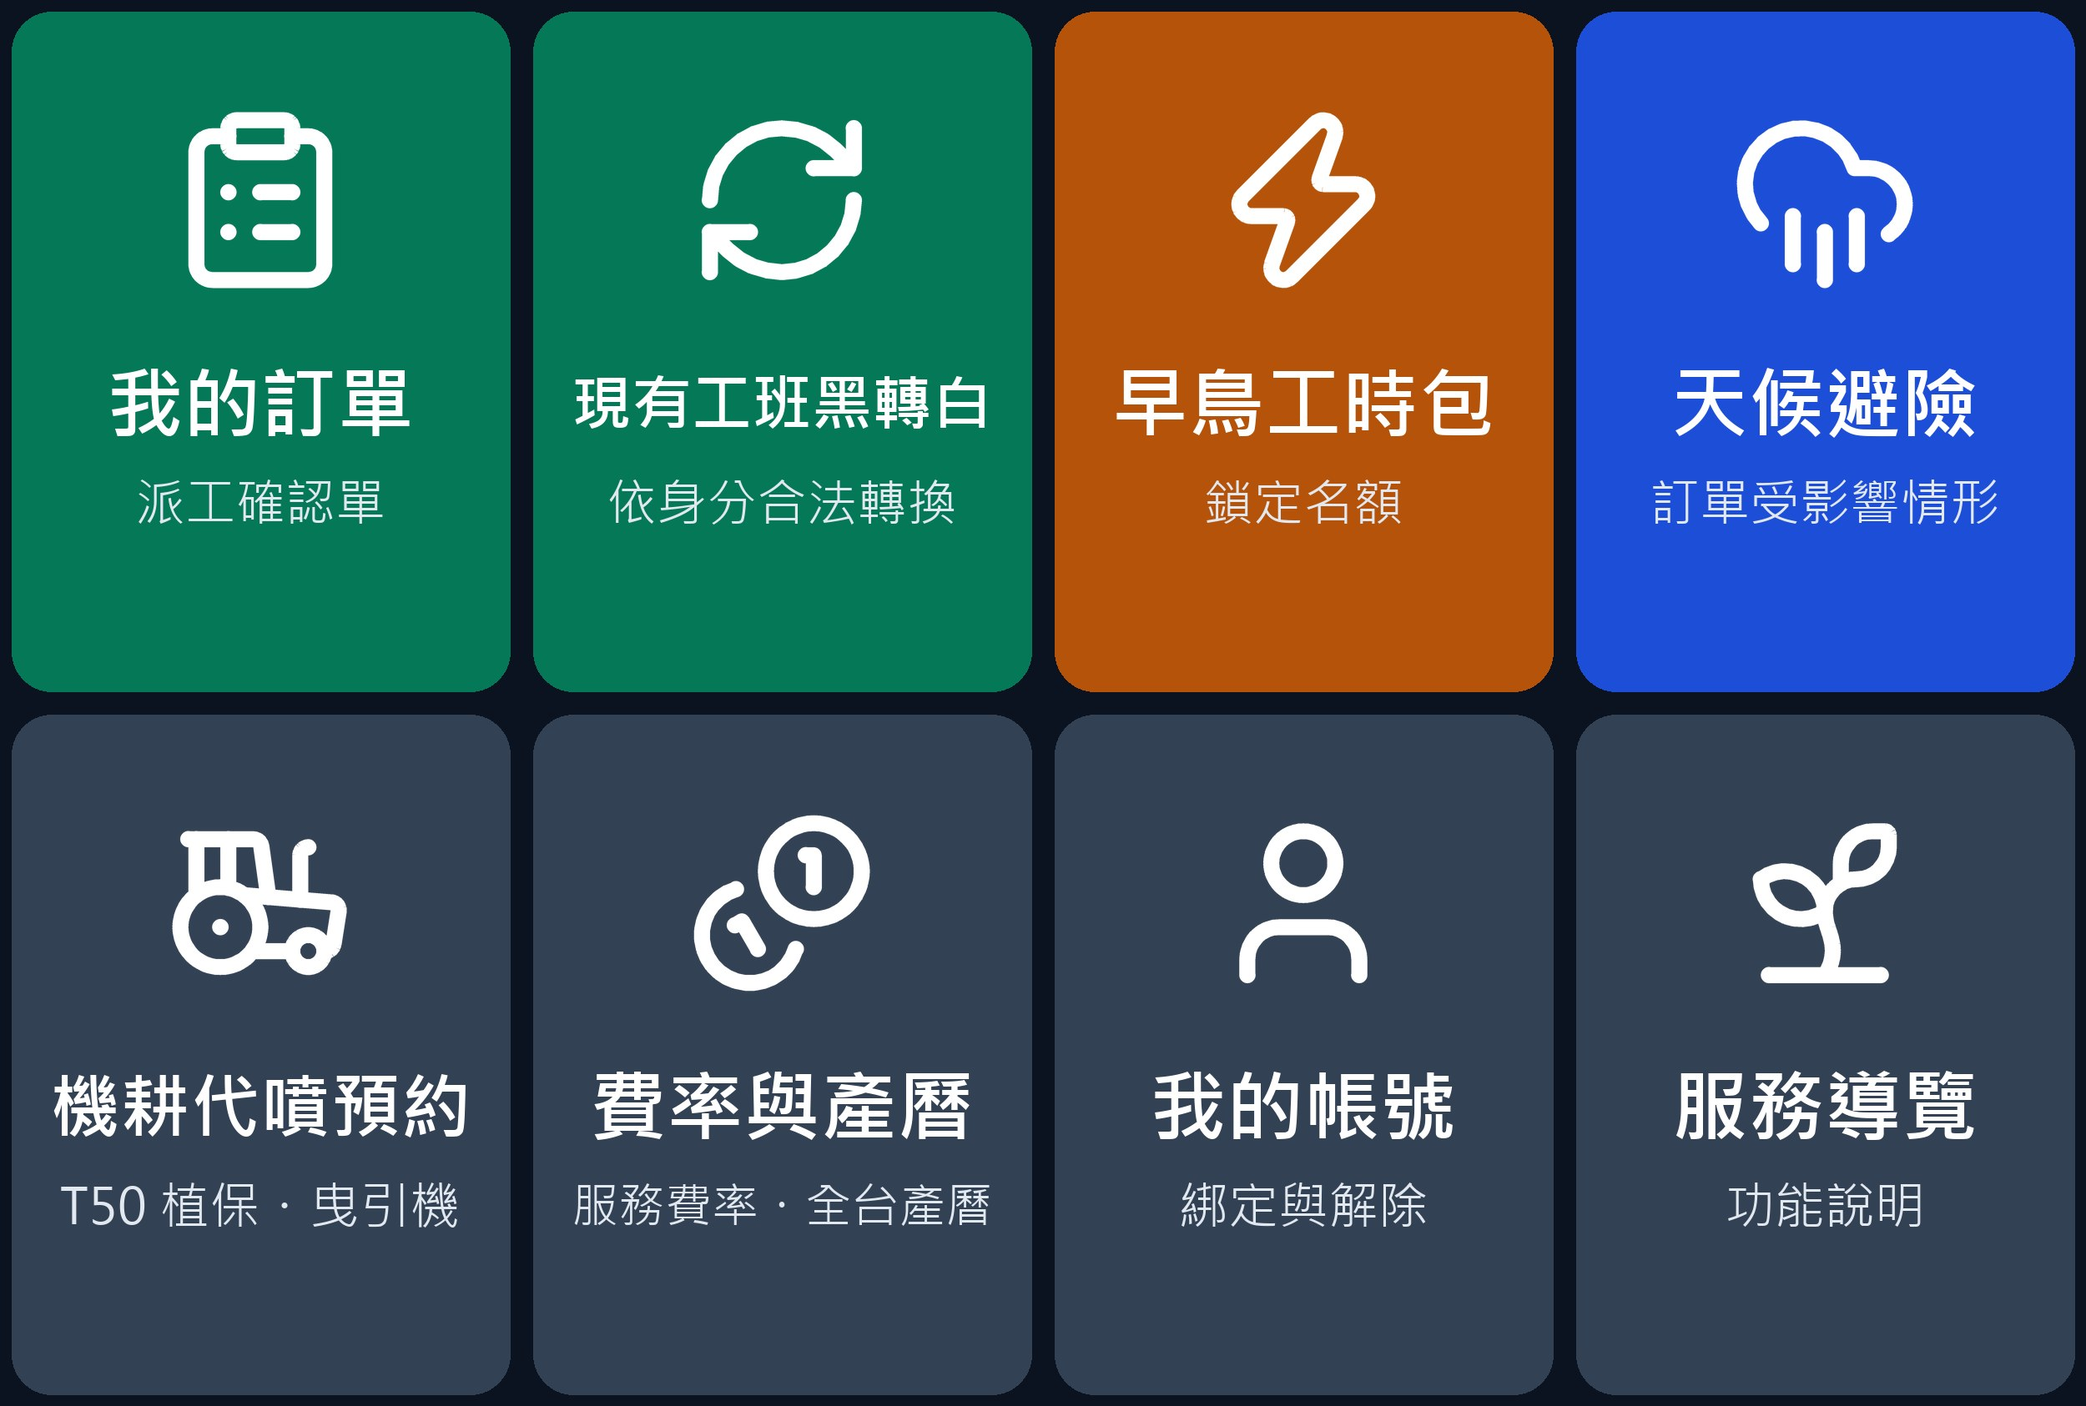
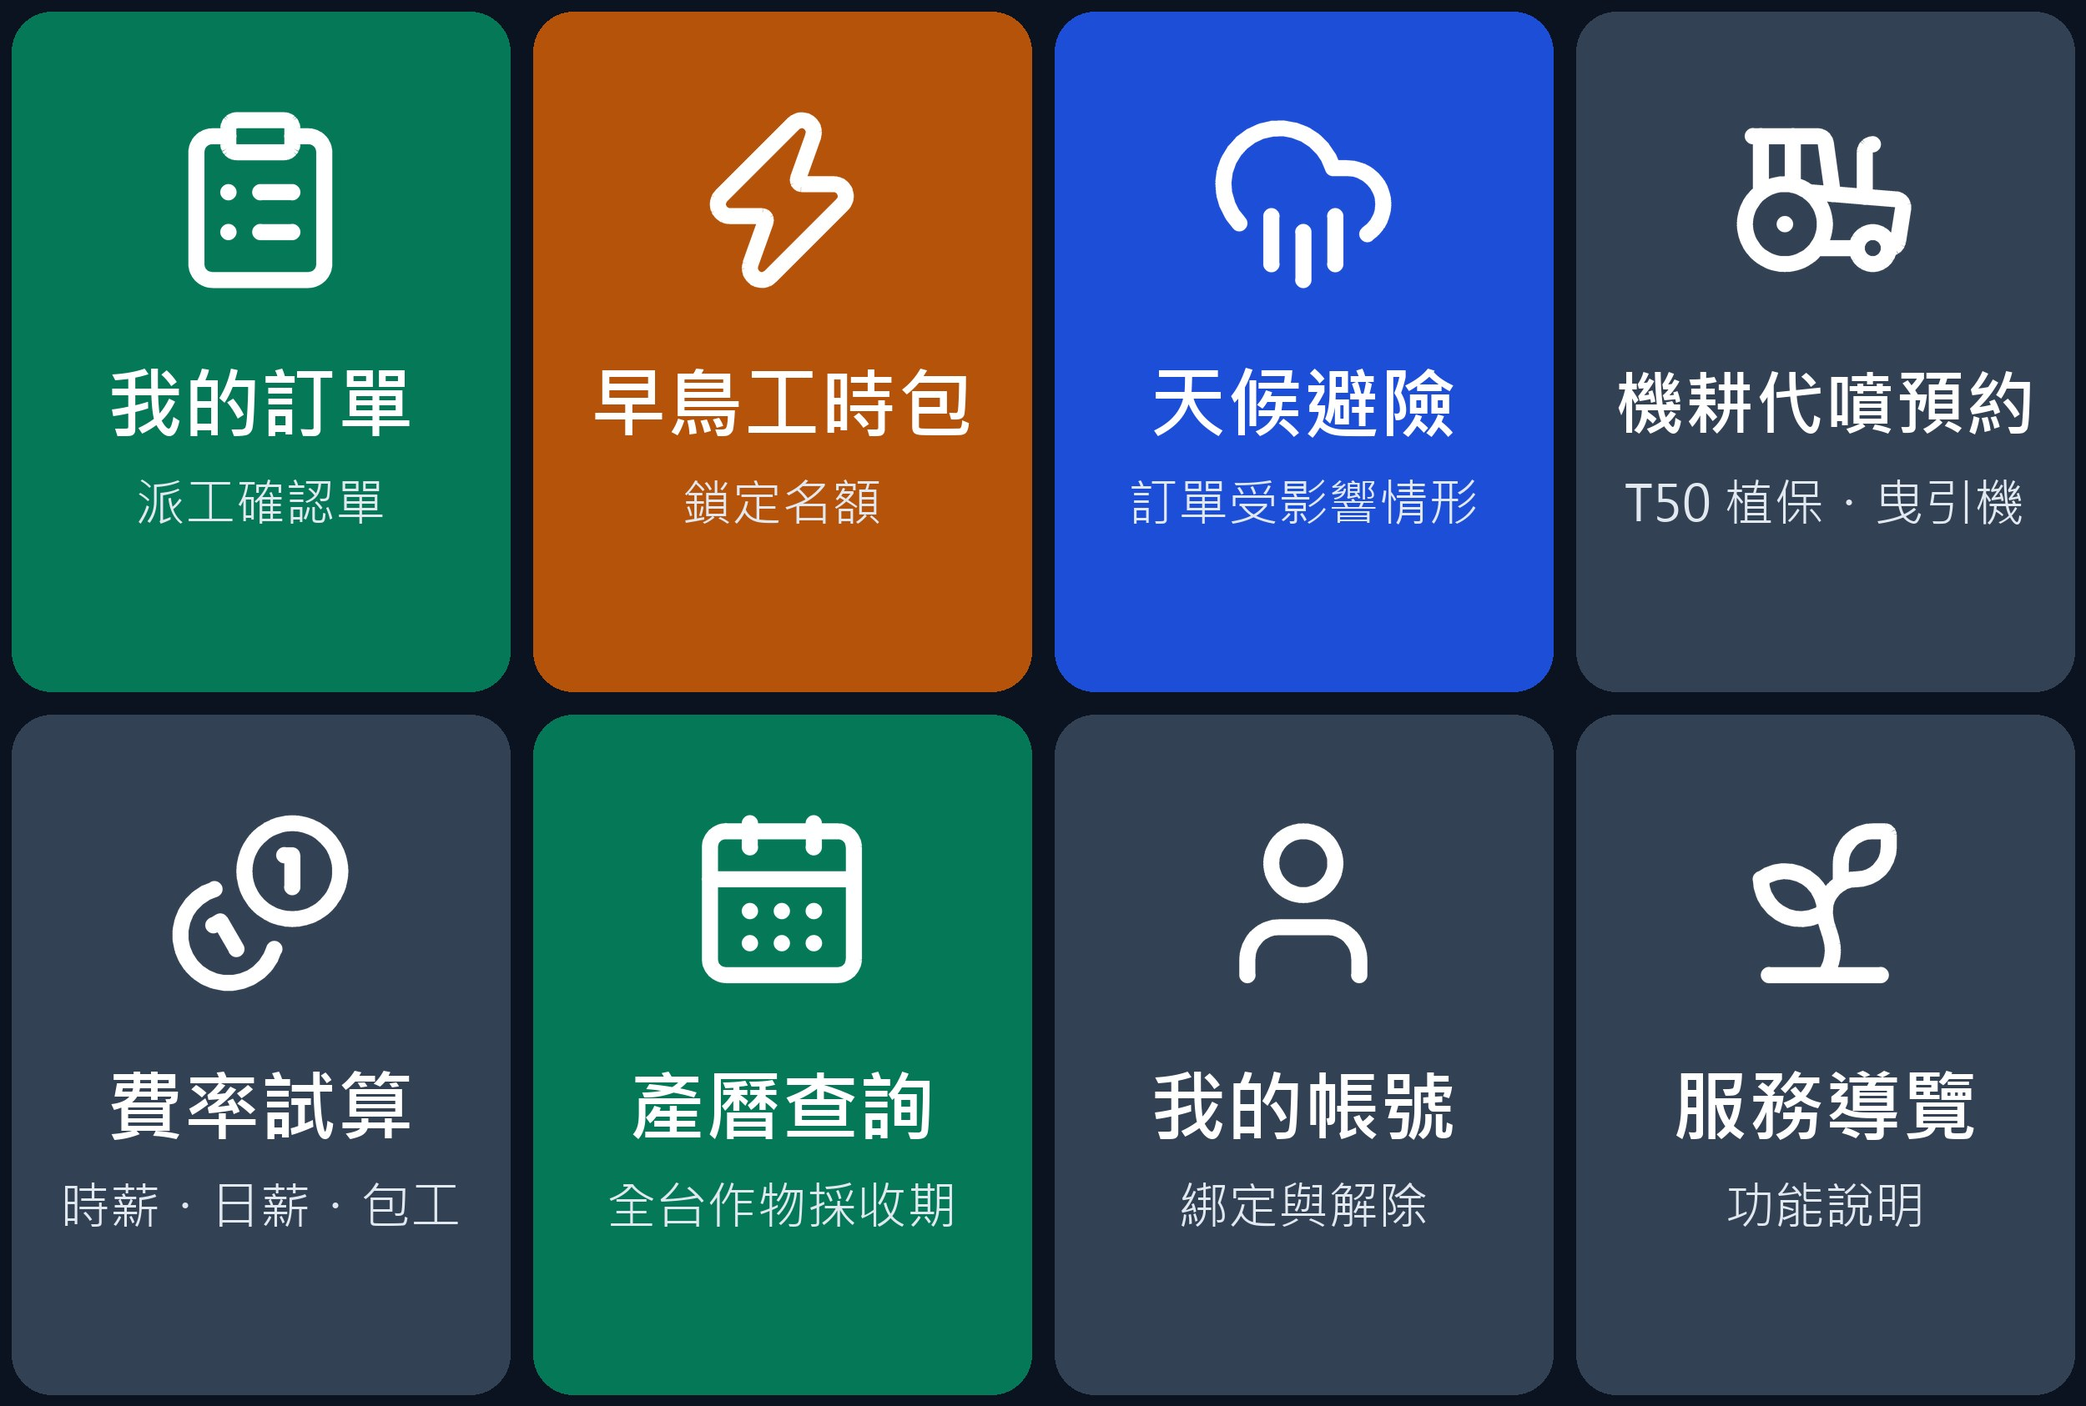
Feat(linebot): LINE Bot 的工班合法化（黑轉白）也暫時下架
以功能開關處理，不刪程式：Config.FEATURE_LEGALIZE（環境變數 FEATURE_LEGALIZE／config.properties 的 feature.legalize），
預設 false，與前端 features.legalize 一致。
- 農場主帳號輸入「黑轉白」「黑工」不再回身分分流卡，落到服務導覽；服務導覽與綁定卡不再提黑轉白
- 手機上尚未更新的舊選單送來 a=legalize 時回「服務暫停提供」
- 圖文選單 farmer_main 拿掉「現有工班黑轉白」，「費率與產曆」拆成「費率試算」「產曆查詢」補位
  （make_rich_menus.py 的 FEATURE_LEGALIZE；已重產 jpg/json，正式帳號需重新上傳）
- TestSimulator 同時檢核下架與恢復兩種狀態；支援「!文字」不得包含

驗證：TestSimulator --check 全部通過

diff --git a/Software/Line Bot/tools/make_rich_menus.py b/Software/Line Bot/tools/make_rich_menus.py
@@ -42,6 +42,30 @@ C = {
     "rose": "#9F1239",    # 求助
 }
 
+# 功能開關：工班合法化（黑轉白）。False＝暫時下架（與 Line Bot 的 feature.legalize、前端 features.legalize 一致），
+# 農場主已綁定選單改把「費率與產曆」拆成「費率試算」「產曆查詢」兩格補位；改 True 後重新執行並上傳即恢復。
+FEATURE_LEGALIZE = False
+
+FARMER_MAIN_CELLS = [
+    ("clipboard-list", "我的訂單", ["派工確認單"], "a=orders", "green"),
+    ("refresh-cw", "現有工班黑轉白", ["依身分合法轉換"], "a=legalize", "green"),
+    ("zap", "早鳥工時包", ["鎖定名額"], "a=early_bird", "amber"),
+    ("cloud-rain", "天候避險", ["訂單受影響情形"], "a=weather", "blue"),
+    ("tractor", "機耕代噴預約", ["T50 植保・曳引機"], "a=machinery_book", "slate"),
+    ("coins", "費率與產曆", ["服務費率・全台產曆"], "a=rates_calendar", "slate"),
+    ("user", "我的帳號", ["綁定與解除"], "a=account", "slate"),
+    ("sprout", "服務導覽", ["功能說明"], "a=help", "slate"),
+] if FEATURE_LEGALIZE else [
+    ("clipboard-list", "我的訂單", ["派工確認單"], "a=orders", "green"),
+    ("zap", "早鳥工時包", ["鎖定名額"], "a=early_bird", "amber"),
+    ("cloud-rain", "天候避險", ["訂單受影響情形"], "a=weather", "blue"),
+    ("tractor", "機耕代噴預約", ["T50 植保・曳引機"], "a=machinery_book", "slate"),
+    ("coins", "費率試算", ["時薪・日薪・包工"], "a=rates", "slate"),
+    ("calendar-days", "產曆查詢", ["全台作物採收期"], "a=calendar", "green"),
+    ("user", "我的帳號", ["綁定與解除"], "a=account", "slate"),
+    ("sprout", "服務導覽", ["功能說明"], "a=help", "slate"),
+]
+
 # 每格：(lucide 圖示, 主標, 副標清單, postback data, 顏色)
 MENUS = {
     "farmer_guest": {
@@ -61,16 +85,7 @@ MENUS = {
         "chatBarText": "農場主選單",
         "name": "智農派工（農場主）已綁定選單",
         "cols": 4,
-        "cells": [
-            ("clipboard-list", "我的訂單", ["派工確認單"], "a=orders", "green"),
-            ("refresh-cw", "現有工班黑轉白", ["依身分合法轉換"], "a=legalize", "green"),
-            ("zap", "早鳥工時包", ["鎖定名額"], "a=early_bird", "amber"),
-            ("cloud-rain", "天候避險", ["訂單受影響情形"], "a=weather", "blue"),
-            ("tractor", "機耕代噴預約", ["T50 植保・曳引機"], "a=machinery_book", "slate"),
-            ("coins", "費率與產曆", ["服務費率・全台產曆"], "a=rates_calendar", "slate"),
-            ("user", "我的帳號", ["綁定與解除"], "a=account", "slate"),
-            ("sprout", "服務導覽", ["功能說明"], "a=help", "slate"),
-        ],
+        "cells": FARMER_MAIN_CELLS,
     },
     "worker_guest": {
         "chatBarText": "Menu / 選單",

diff --git a/Software/Line Bot/src/com/agridispatch/linebot/FlexMessageBuilder.java b/Software/Line Bot/src/com/agridispatch/linebot/FlexMessageBuilder.java
@@ -5,6 +5,7 @@ import java.net.URLEncoder;
 import java.nio.charset.StandardCharsets;
 import java.nio.file.Files;
 import java.nio.file.Path;
+import java.util.ArrayList;
 import java.util.List;
 
 /**
@@ -115,7 +116,8 @@ public class FlexMessageBuilder {
     /** F-07 農場主帳號綁定卡（不顯示 LINE userId） */
     public static String getFarmerBindingFlex(String userId) {
         return wrapFlex("智農派工 - 農場主帳號綁定", simpleBubble("#0F766E", "智農派工（農場主）", "帳號綁定",
-                List.of("綁定後可查看您的訂單與派工確認單、天候對訂單的影響，並使用黑轉白服務。"),
+                List.of(Config.FEATURE_LEGALIZE ? "綁定後可查看您的訂單與派工確認單、天候對訂單的影響，並使用黑轉白服務。"
+                        : "綁定後可查看您的訂單與派工確認單，以及天候對訂單的影響。"),
                 List.of(uriButton("農場主帳號綁定", bindUrl(Channel.FARMER, Identity.FARMER, null, userId), "#059669"))));
     }
 
@@ -130,15 +132,20 @@ public class FlexMessageBuilder {
     /** F-08 農場主服務導覽（只列農場主功能） */
     public static String getFarmerHelpFlex() {
         return wrapFlex("智農派工（農場主）- 服務導覽", simpleBubble("#047857", "智農派工（農場主）", "服務導覽",
-                List.of("請點下方選單，或輸入下列文字：",
-                        "• 「派工」「訂單」：我的訂單與派工確認單",
-                        "• 「黑轉白」：現有工班依身分轉為合法聘僱",
-                        "• 「早鳥」：產季早鳥保證工時包",
-                        "• 「避險」：天候對訂單的影響",
-                        "• 「機耕」：無人機代噴與農機預約",
-                        "• 「費率」「產曆」：服務費率與全台產曆",
-                        "• 「綁定」：帳號綁定"),
+                farmerHelpLines(),
                 List.of()));
+    }
+
+    private static List<String> farmerHelpLines() {
+        List<String> lines = new ArrayList<>(List.of("請點下方選單，或輸入下列文字：",
+                "• 「派工」「訂單」：我的訂單與派工確認單"));
+        if (Config.FEATURE_LEGALIZE) lines.add("• 「黑轉白」：現有工班依身分轉為合法聘僱");
+        lines.addAll(List.of("• 「早鳥」：產季早鳥保證工時包",
+                "• 「避險」：天候對訂單的影響",
+                "• 「機耕」：無人機代噴與農機預約",
+                "• 「費率」「產曆」：服務費率與全台產曆",
+                "• 「綁定」：帳號綁定"));
+        return lines;
     }
 
     /** W-08 工作者使用說明（依語言） */

diff --git a/Software/Line Bot/src/com/agridispatch/linebot/TestSimulator.java b/Software/Line Bot/src/com/agridispatch/linebot/TestSimulator.java
@@ -88,9 +88,17 @@ public class TestSimulator {
 
         // 農場主帳號（Mock 模式未指定身分時視為示範農場主）
         failed += check("F-01 派工確認單", F, null, text("派工"), 0, "派工確認單");
+        // F-02 黑轉白：預設下架（Config.FEATURE_LEGALIZE=false），兩種狀態都檢核，最後還原設定
+        boolean legalizeSetting = Config.FEATURE_LEGALIZE;
+        Config.FEATURE_LEGALIZE = false;
+        failed += check("F-02 黑轉白下架：文字回服務導覽", F, null, text("黑轉白"), 0, "服務導覽");
+        failed += check("F-02 黑轉白下架：導覽不列黑轉白", F, null, text("服務導覽"), 0, "!黑轉白");
+        failed += check("F-02 黑轉白下架：舊選單 postback", F, null, pb("a=legalize&t=borrowed"), 0, "暫停提供");
+        Config.FEATURE_LEGALIZE = true;
         failed += check("F-02 黑轉白身分選單", F, null, text("黑轉白"), 0, "請選擇工人身分");
         failed += check("F-02 黑轉白（文字）", F, null, text("黑轉白：失聯移工"), 0, "失聯");
         failed += check("F-02 黑轉白（postback）", F, null, pb("a=legalize&t=borrowed"), 0, "借用");
+        Config.FEATURE_LEGALIZE = legalizeSetting;
         failed += check("F-03 早鳥工時包", F, null, text("早鳥工時包"), 0, "早鳥");
         failed += check("F-04 天候避險", F, null, text("天候避險"), 0, "暴雨");
         failed += check("F-05 機耕代噴預約", F, null, text("機耕代噴"), 0, "機耕代噴預約");
@@ -227,7 +235,8 @@ public class TestSimulator {
 
     private static int expect(String name, List<String> replies, int index, String expected) {
         String got = index < replies.size() ? replies.get(index) : "";
-        boolean ok = got.contains(expected);
+        // 「!文字」：該則有內容且不得含此文字
+        boolean ok = expected.startsWith("!") ? !got.isEmpty() && !got.contains(expected.substring(1)) : got.contains(expected);
         System.out.printf("  %s %-36s → %s%n", ok ? "✅" : "❌", name, ok ? summary(got) : "預期第 " + (index + 1)
                 + " 則含「" + expected + "」，實際：" + (got.isEmpty() ? "（無）" : summary(got)));
         return ok ? 0 : 1;

diff --git a/Software/Line Bot/src/com/agridispatch/linebot/FarmerDispatcher.java b/Software/Line Bot/src/com/agridispatch/linebot/FarmerDispatcher.java
@@ -42,8 +42,8 @@ final class FarmerDispatcher {
     /** 文字訊息 → 動作代碼（與圖文選單 postback 的 a= 相同，規格 5.2） */
     static String actionOf(String raw) {
         String t = raw == null ? "" : raw.trim().toLowerCase();
-        // 黑轉白須在「派工」之前判斷，避免「改派」等字被派工規則吃掉
-        if (has(t, "黑轉白", "黑工")) return "legalize";
+        // 黑轉白須在「派工」之前判斷，避免「改派」等字被派工規則吃掉；功能下架時不辨識（落到服務導覽）
+        if (Config.FEATURE_LEGALIZE && has(t, "黑轉白", "黑工")) return "legalize";
         if (has(t, "派工", "訂單", "單號", "ord-", "工單", "進度")) return "orders";
         if (has(t, "避險", "天氣", "天候", "暴雨", "颱風", "雨")) return "weather";
         if (has(t, "早鳥", "預購", "優惠", "工時包", "early")) return "early_bird";
@@ -67,6 +67,11 @@ final class FarmerDispatcher {
                 return reply != null && !reply.isEmpty() ? reply : List.of(FlexMessageBuilder.getFarmerOrderFlex());
             }
             case "legalize": {
+                // 功能下架（Config.FEATURE_LEGALIZE=false）：手機上尚未更新的舊圖文選單仍可能送來 a=legalize
+                if (!Config.FEATURE_LEGALIZE) {
+                    return List.of(FlexMessageBuilder.wrapText("工班合法化（黑轉白）服務暫停提供，請點下方選單使用其他功能。"),
+                            FlexMessageBuilder.getFarmerHelpFlex());
+                }
                 if (!me.isFarmer()) return bindingRequired(userId);
                 String key = params.get("t");
                 String typeText = key != null && LEGALIZE_KEYS.containsKey(key) ? LEGALIZE_KEYS.get(key) : text;

diff --git a/Software/Line Bot/src/com/agridispatch/linebot/Config.java b/Software/Line Bot/src/com/agridispatch/linebot/Config.java
@@ -59,6 +59,13 @@ public class Config {
     /** 合作社服務專線（工作者帳號「聯絡合作社」按鈕）；未設定時只顯示勞動部 1955 專線。來源：COOP_CONTACT_PHONE／coop.contact.phone */
     public static String COOP_CONTACT_PHONE = null;
 
+    /**
+     * 功能開關：工班合法化（黑轉白）。預設 false（暫時下架，與前端 app-config.js 的 features.legalize 一致）：
+     * 農場主帳號不回黑轉白卡片、服務導覽不列此項。改回 true 即恢復；圖文選單另需以 tools/make_rich_menus.py 重產並上傳。
+     * 來源：環境變數 FEATURE_LEGALIZE，或 config.properties 的 feature.legalize（true／false）。
+     */
+    public static boolean FEATURE_LEGALIZE = false;
+
     /** 是否以舊的單一帳號設定（LINE_CHANNEL_*／line.channel.*）當作農場主帳號 */
     public static boolean LEGACY_FARMER_CONFIG = false;
 
@@ -131,6 +138,8 @@ public class Config {
         if (INTERNAL_KEY != null && INTERNAL_KEY.startsWith("請填入")) INTERNAL_KEY = null;
 
         COOP_CONTACT_PHONE = pick(prop, "COOP_CONTACT_PHONE", "coop.contact.phone");
+
+        FEATURE_LEGALIZE = "true".equalsIgnoreCase(pick(prop, "FEATURE_LEGALIZE", "feature.legalize"));
 
         LIFF_BIND_ID = pick(prop, "LIFF_BIND_ID", "liff.bind.id");
         if (LIFF_BIND_ID != null && LIFF_BIND_ID.startsWith("請填入")) LIFF_BIND_ID = null;

diff --git a/Software/Line Bot/README.md b/Software/Line Bot/README.md
@@ -68,7 +68,7 @@ Software\Line Bot\
    - `/as <身分>`：設定示範身分 `farmer`、`local`（中高齡本勞）、`foreman`（帶班師傅）、`machinery`（機耕師）、`machinery_leader`（機耕隊組長）、`vn`、`id`、`th`、`unbound`（未綁定）。
    - `/follow [語言]`：模擬加好友，可帶 LINE 介面語言（例 `/follow vi`）。
    - `/pb <data>`：模擬圖文選單 postback（例 `/pb a=lang&v=vi`）。
-5. 農場主帳號可輸入：`派工`（派工確認單）、`黑轉白`（身分分流；點身分按鈕送出 `黑轉白：失聯移工` 等訊息）、`早鳥`、`避險`、`機耕`（代噴預約）、`費率`／`產曆`（轉後端查詢）、`帳號綁定`。
+5. 農場主帳號可輸入：`派工`（派工確認單）、`黑轉白`（身分分流；點身分按鈕送出 `黑轉白：失聯移工` 等訊息。**2026-10-08 起暫時下架**：預設 `feature.legalize=false`，輸入黑轉白只回服務導覽）、`早鳥`、`避險`、`機耕`（代噴預約）、`費率`／`產曆`（轉後端查詢）、`帳號綁定`。
    Mock 模式下未指定身分的使用者視為已綁定的示範農場主。卡片按鈕連到 `web.base.url`（預設 `http://localhost:3000/demo`），實機 LINE 須改成公開 https 網址。
 6. 工作者帳號（先 `/worker`、`/as vn`）可輸入：`nhiệm vụ`／`任務`（今日任務）、`chấm công`／`打卡`、`thời tiết`／`天氣`（集合通知）、`lương`／`薪資`、`出勤`、`切換語言`、`帳號綁定`。
 7. 在一個帳號問另一個帳號的功能（例如工作者帳號輸入「黑轉白」「早鳥」「費率」），只會收到「請加入另一個帳號」的引導，不會回覆該功能內容。
@@ -202,7 +202,7 @@ Body 欄位（JSON）：`channel`（`farmer` 預設／`worker`）、`userId`、`
 | 選單代碼 | 帳號 | 對象 | 版型 | 按鈕 |
 | :--- | :--- | :--- | :--- | :--- |
 | `farmer_guest`（帳號預設） | 農場主 | 未綁定 | 3×2 | 早鳥工時包、費率試算、產曆查詢、機耕代噴預約、帳號綁定、服務導覽 |
-| `farmer_main` | 農場主 | 已綁定農場主 | 4×2 | 我的訂單、現有工班黑轉白、早鳥工時包、天候避險、機耕代噴預約、費率與產曆、我的帳號、服務導覽 |
+| `farmer_main` | 農場主 | 已綁定農場主 | 4×2 | 我的訂單、早鳥工時包、天候避險、機耕代噴預約、費率試算、產曆查詢、我的帳號、服務導覽（黑轉白下架期間；`make_rich_menus.py` 的 `FEATURE_LEGALIZE=True` 時為：我的訂單、現有工班黑轉白、早鳥工時包、天候避險、機耕代噴預約、費率與產曆、我的帳號、服務導覽） |
 | `worker_guest`（帳號預設） | 工作者 | 未綁定 | 3×2（三語） | 繁體中文、Tiếng Việt、Bahasa Indonesia、帳號綁定、使用說明、聯絡合作社 |
 | `worker_main_zh`／`_vi`／`_id` | 工作者 | 已綁定（依語言） | 3×2 | 今日任務、上下班打卡、天候與集合、薪資明細、我的出勤、語言・說明（越、印尼語版附中文小字） |
 
